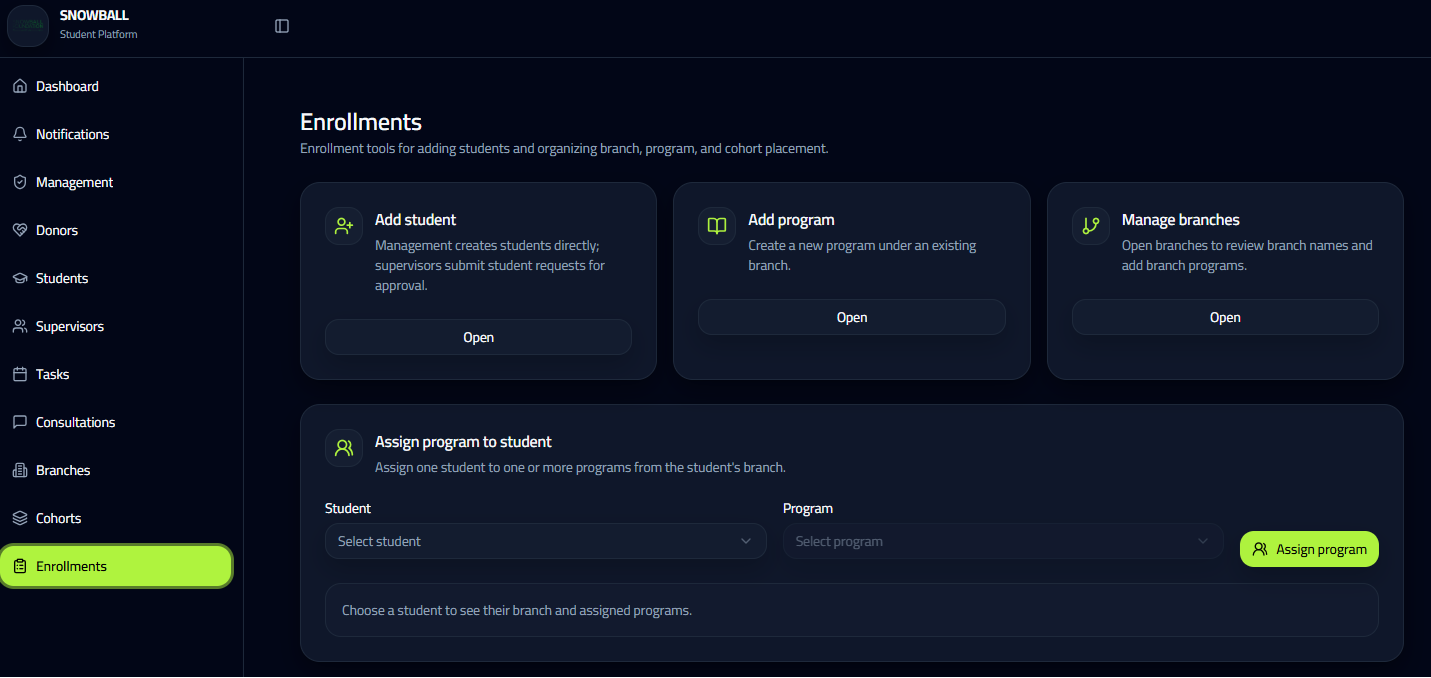
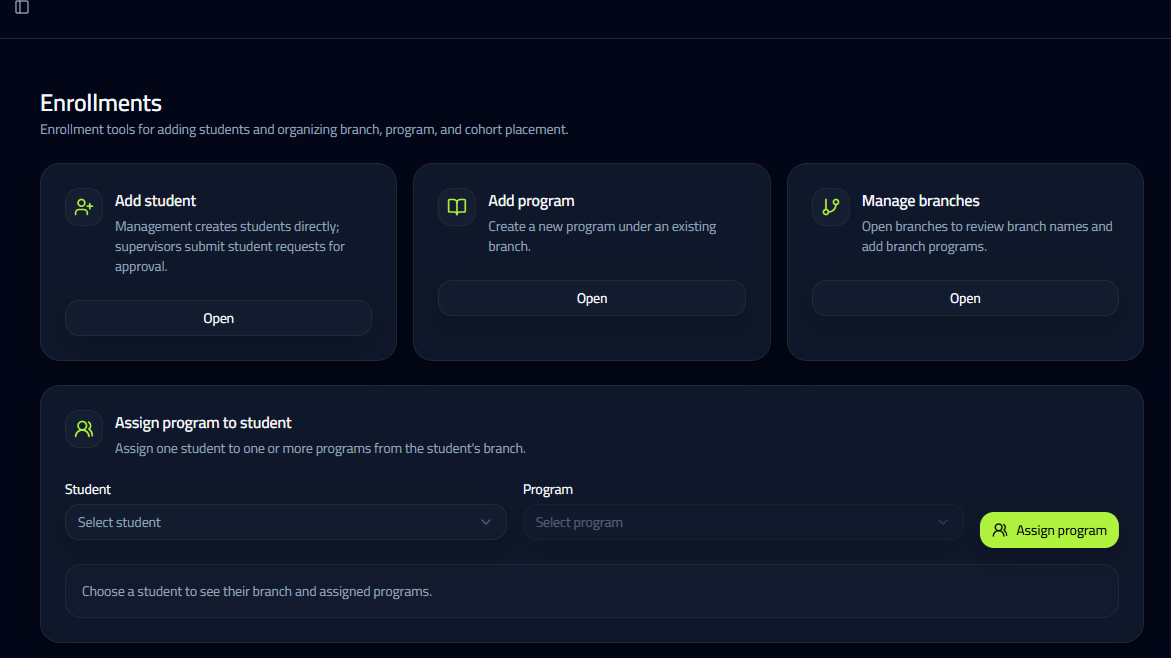
Polish portfolio project galleries

diff --git a/src/pages/portfolio/projectsData.ts b/src/pages/portfolio/projectsData.ts
@@ -84,26 +84,26 @@ export const projects: Project[] = [
         ],
     },
     {
-        slug: "snowball",
-        title: { en: "Snowball Foundation", ar: "سنوبول فاونديشن" },
-        category: { en: "Student platform", ar: "منصة طلابية" },
-        kinds: ["platform"],
+        slug: "core",
+        title: { en: "Core Istanbul", ar: "كور إسطنبول" },
+        category: { en: "Brand website", ar: "موقع هوية" },
+        kinds: ["website"],
         intro: {
-            en: "A focused platform experience for students, tasks, reviews, and program visibility.",
-            ar: "منصة مركزة للطلاب والمهام والمراجعات ورؤية البرامج بوضوح.",
+            en: "A sleek website experience for a brand that needs to feel polished and memorable.",
+            ar: "تجربة موقع أنيقة لعلامة تحتاج أن تظهر بشكل مصقول ولا ينسى.",
         },
         details: {
-            en: "Snowball brings student progress, task follow-up, and review flows into one clean interface. The design keeps dense operational data readable while staying friendly on mobile.",
-            ar: "يجمع سنوبول تقدم الطلاب ومتابعة المهام ومسارات المراجعة في واجهة واحدة واضحة، مع الحفاظ على سهولة قراءة البيانات على الموبايل.",
+            en: "Core Istanbul balances large visual moments with practical sections, giving the brand a premium first impression across desktop and mobile screens.",
+            ar: "يوازن كور إسطنبول بين اللقطات البصرية الكبيرة والأقسام العملية ليمنح العلامة انطباعاً احترافياً على الديسكتوب والموبايل.",
         },
-        accent: "#20a8d8",
-        cover: snowballCover,
-        desktopImages: [snowballOne, snowballTwo, snowballThree],
-        mobileImages: [snowballMobileOne, snowballMobileTwo, snowballMobileThree],
+        accent: "#0cae9d",
+        cover: coreCover,
+        desktopImages: [coreOne, coreTwo, coreThree],
+        mobileImages: [coreMobileOne, coreMobileTwo, coreMobileThree],
         highlights: [
-            { en: "Responsive dashboard flows", ar: "لوحات متجاوبة" },
-            { en: "Clear task and review states", ar: "حالات مهام ومراجعات واضحة" },
-            { en: "Mobile-friendly student views", ar: "واجهات طلابية مناسبة للموبايل" },
+            { en: "Premium landing experience", ar: "تجربة صفحة رئيسية فاخرة" },
+            { en: "Image-led storytelling", ar: "سرد بصري بالصور" },
+            { en: "Fast, polished interface", ar: "واجهة سريعة ومصقولة" },
         ],
     },
     {
@@ -130,26 +130,26 @@ export const projects: Project[] = [
         ],
     },
     {
-        slug: "core",
-        title: { en: "Core Istanbul", ar: "كور إسطنبول" },
-        category: { en: "Brand website", ar: "موقع هوية" },
-        kinds: ["website"],
+        slug: "snowball",
+        title: { en: "Snowball Foundation", ar: "سنوبول فاونديشن" },
+        category: { en: "Student platform", ar: "منصة طلابية" },
+        kinds: ["platform"],
         intro: {
-            en: "A sleek website experience for a brand that needs to feel polished and memorable.",
-            ar: "تجربة موقع أنيقة لعلامة تحتاج أن تظهر بشكل مصقول ولا ينسى.",
+            en: "A focused platform experience for students, tasks, reviews, and program visibility.",
+            ar: "منصة مركزة للطلاب والمهام والمراجعات ورؤية البرامج بوضوح.",
         },
         details: {
-            en: "Core Istanbul balances large visual moments with practical sections, giving the brand a premium first impression across desktop and mobile screens.",
-            ar: "يوازن كور إسطنبول بين اللقطات البصرية الكبيرة والأقسام العملية ليمنح العلامة انطباعاً احترافياً على الديسكتوب والموبايل.",
+            en: "Snowball brings student progress, task follow-up, and review flows into one clean interface. The design keeps dense operational data readable while staying friendly on mobile.",
+            ar: "يجمع سنوبول تقدم الطلاب ومتابعة المهام ومسارات المراجعة في واجهة واحدة واضحة، مع الحفاظ على سهولة قراءة البيانات على الموبايل.",
         },
-        accent: "#0cae9d",
-        cover: coreCover,
-        desktopImages: [coreOne, coreTwo, coreThree],
-        mobileImages: [coreMobileOne, coreMobileTwo, coreMobileThree],
+        accent: "#20a8d8",
+        cover: snowballCover,
+        desktopImages: [snowballOne, snowballTwo, snowballThree],
+        mobileImages: [snowballMobileOne, snowballMobileTwo, snowballMobileThree],
         highlights: [
-            { en: "Premium landing experience", ar: "تجربة صفحة رئيسية فاخرة" },
-            { en: "Image-led storytelling", ar: "سرد بصري بالصور" },
-            { en: "Fast, polished interface", ar: "واجهة سريعة ومصقولة" },
+            { en: "Responsive dashboard flows", ar: "لوحات متجاوبة" },
+            { en: "Clear task and review states", ar: "حالات مهام ومراجعات واضحة" },
+            { en: "Mobile-friendly student views", ar: "واجهات طلابية مناسبة للموبايل" },
         ],
     },
     {

diff --git a/src/styles/utilities.css b/src/styles/utilities.css
@@ -838,15 +838,24 @@
         gap: 1.25rem;
     }
 
-    .project-desktop-gallery img {
+    .project-desktop-shot {
         width: 100%;
+        aspect-ratio: 16 / 9;
         overflow: hidden;
         border-radius: 20px;
         border: 0;
         box-shadow: 0 26px 70px rgba(0, 10, 18, 0.3);
     }
 
-    .project-desktop-gallery img:first-child {
+    .project-desktop-shot img {
+        width: 100%;
+        height: 100%;
+        object-fit: cover;
+        object-position: top center;
+        transition: transform 300ms ease;
+    }
+
+    .project-desktop-shot:first-child {
         grid-column: 1 / -1;
     }
 
@@ -1058,7 +1067,7 @@
             gap: 1rem;
         }
 
-        .project-desktop-gallery img {
+        .project-desktop-shot {
             border-radius: 18px;
         }
 

diff --git a/src/pages/portfolio/projectDetail.tsx b/src/pages/portfolio/projectDetail.tsx
@@ -138,7 +138,9 @@ export default function ProjectDetail() {
                     </div>
                     <div className="project-desktop-gallery">
                         {project.desktopImages.map((image, index) => (
-                            <img key={image} src={image} alt={`${project.title[lang]} desktop ${index + 1}`} />
+                            <div key={image} className="project-desktop-shot">
+                                <img src={image} alt={`${project.title[lang]} desktop ${index + 1}`} />
+                            </div>
                         ))}
                     </div>
                     <div className="project-mobile-gallery">